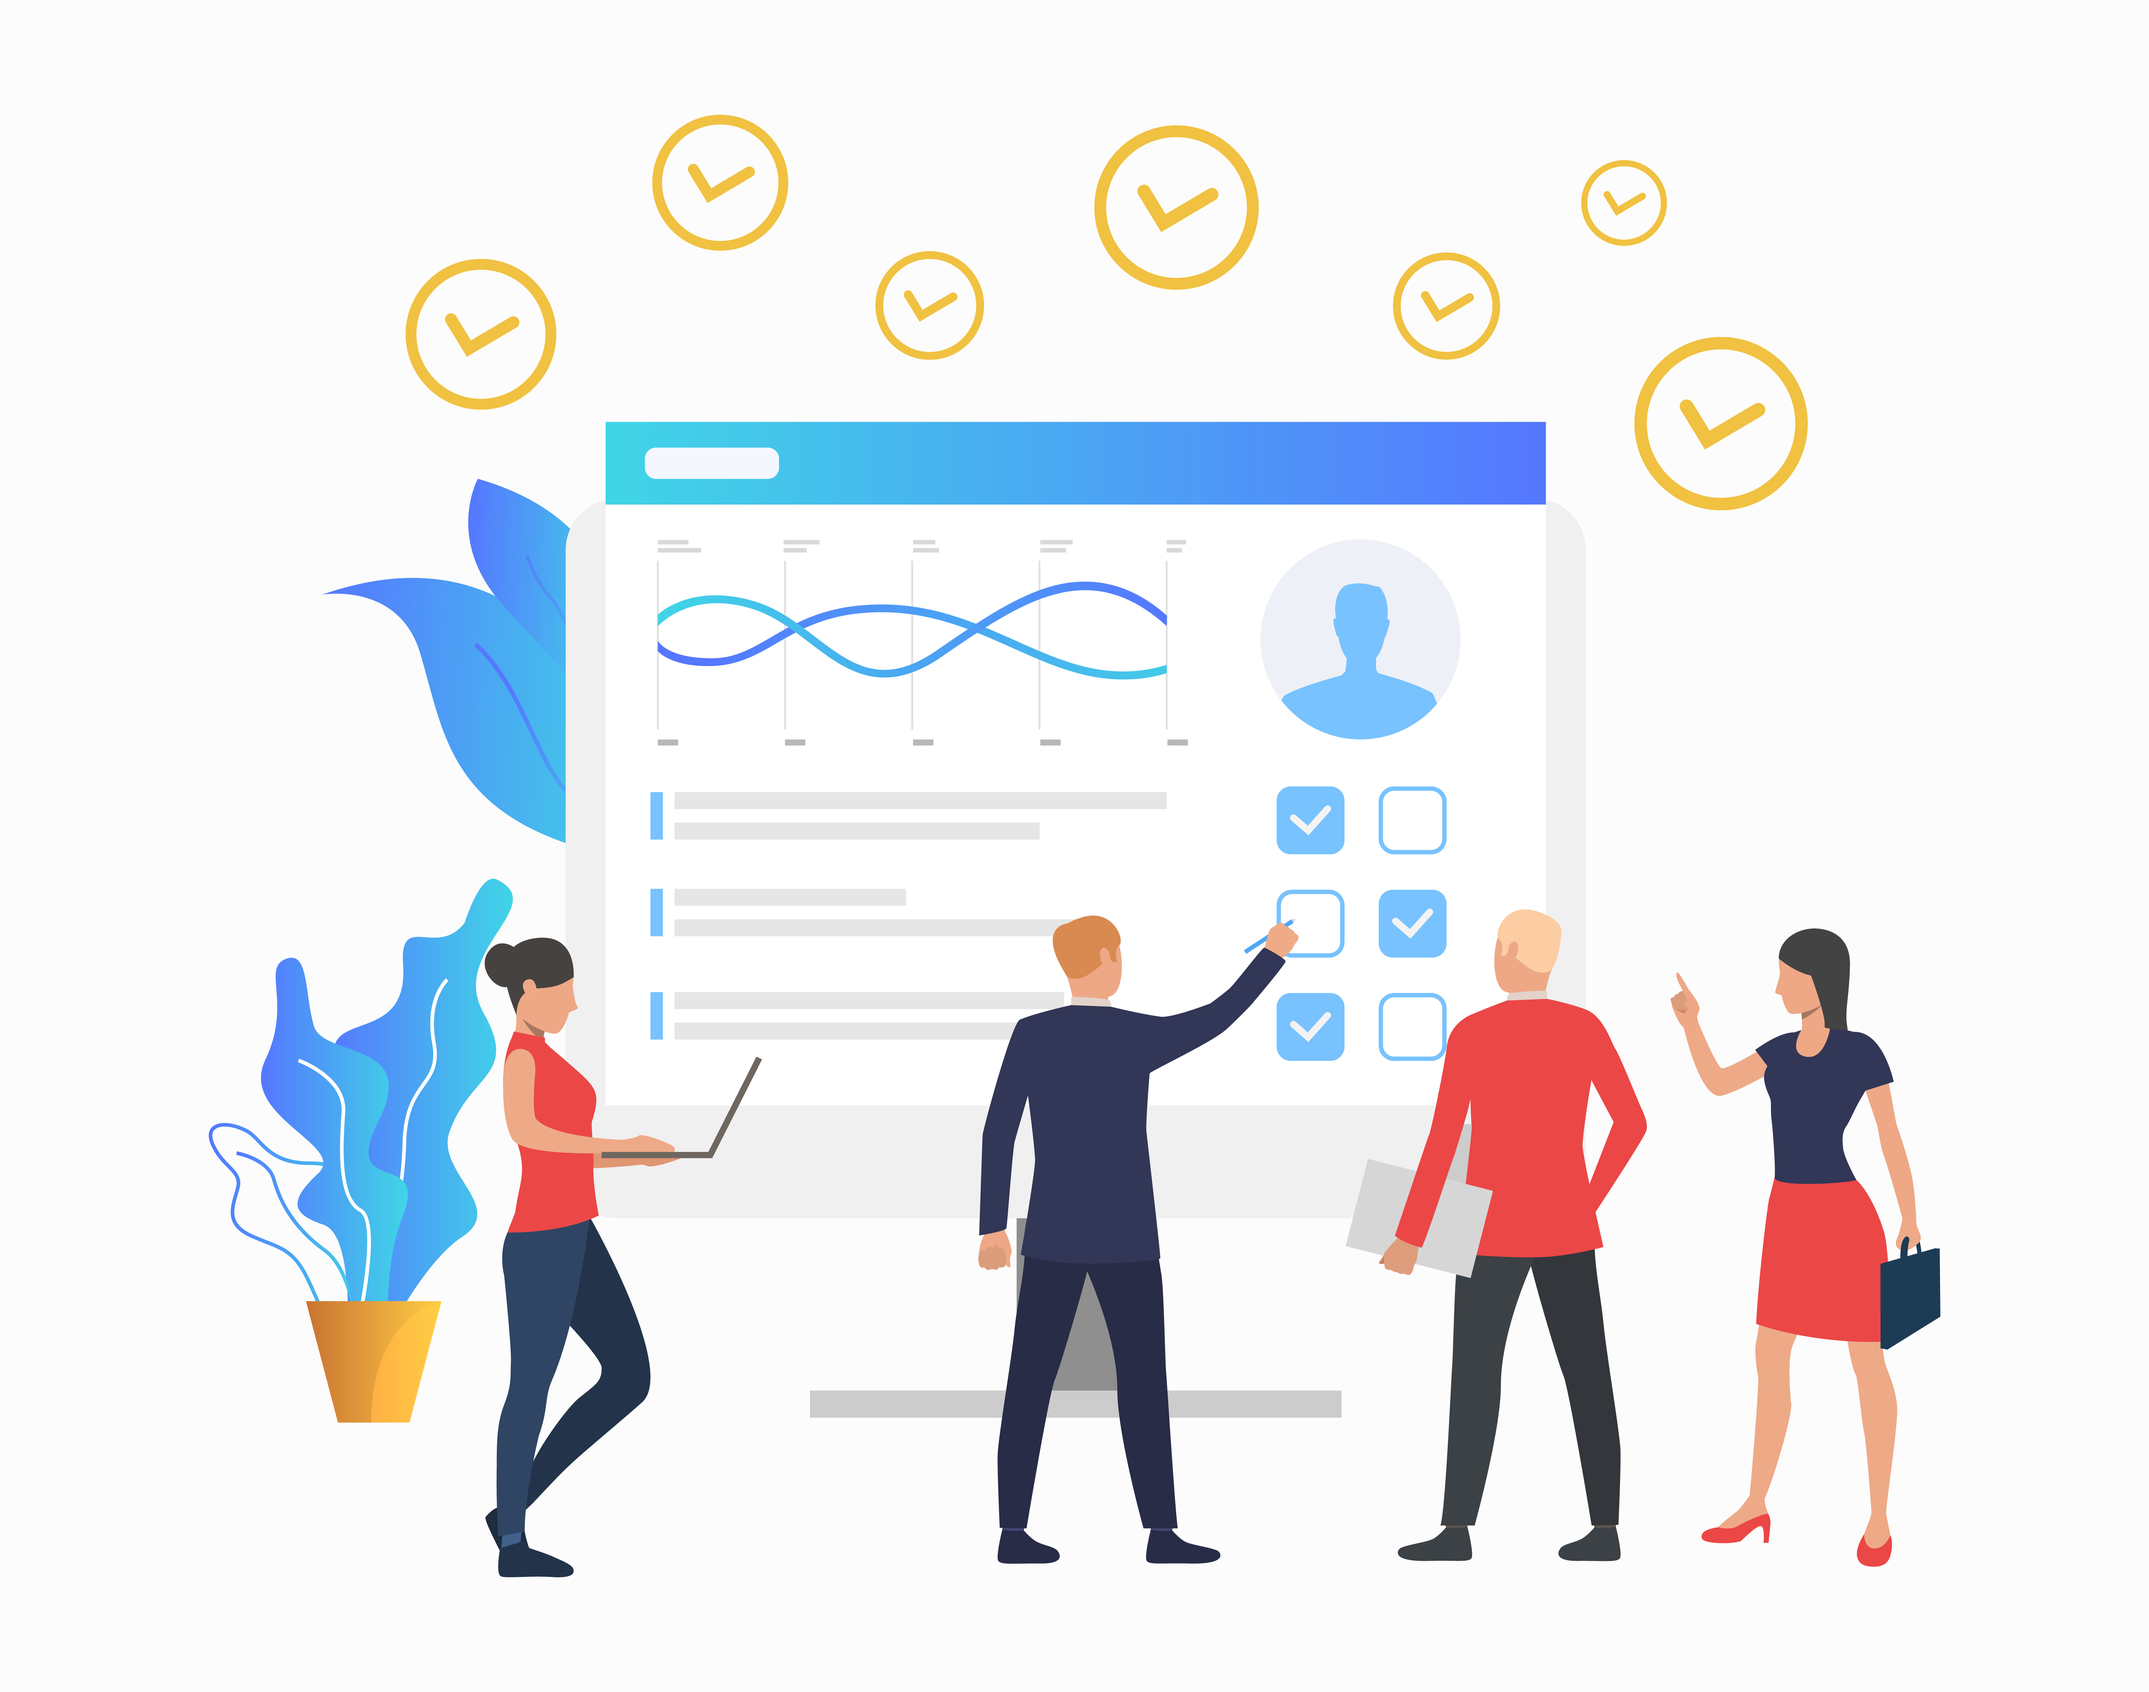
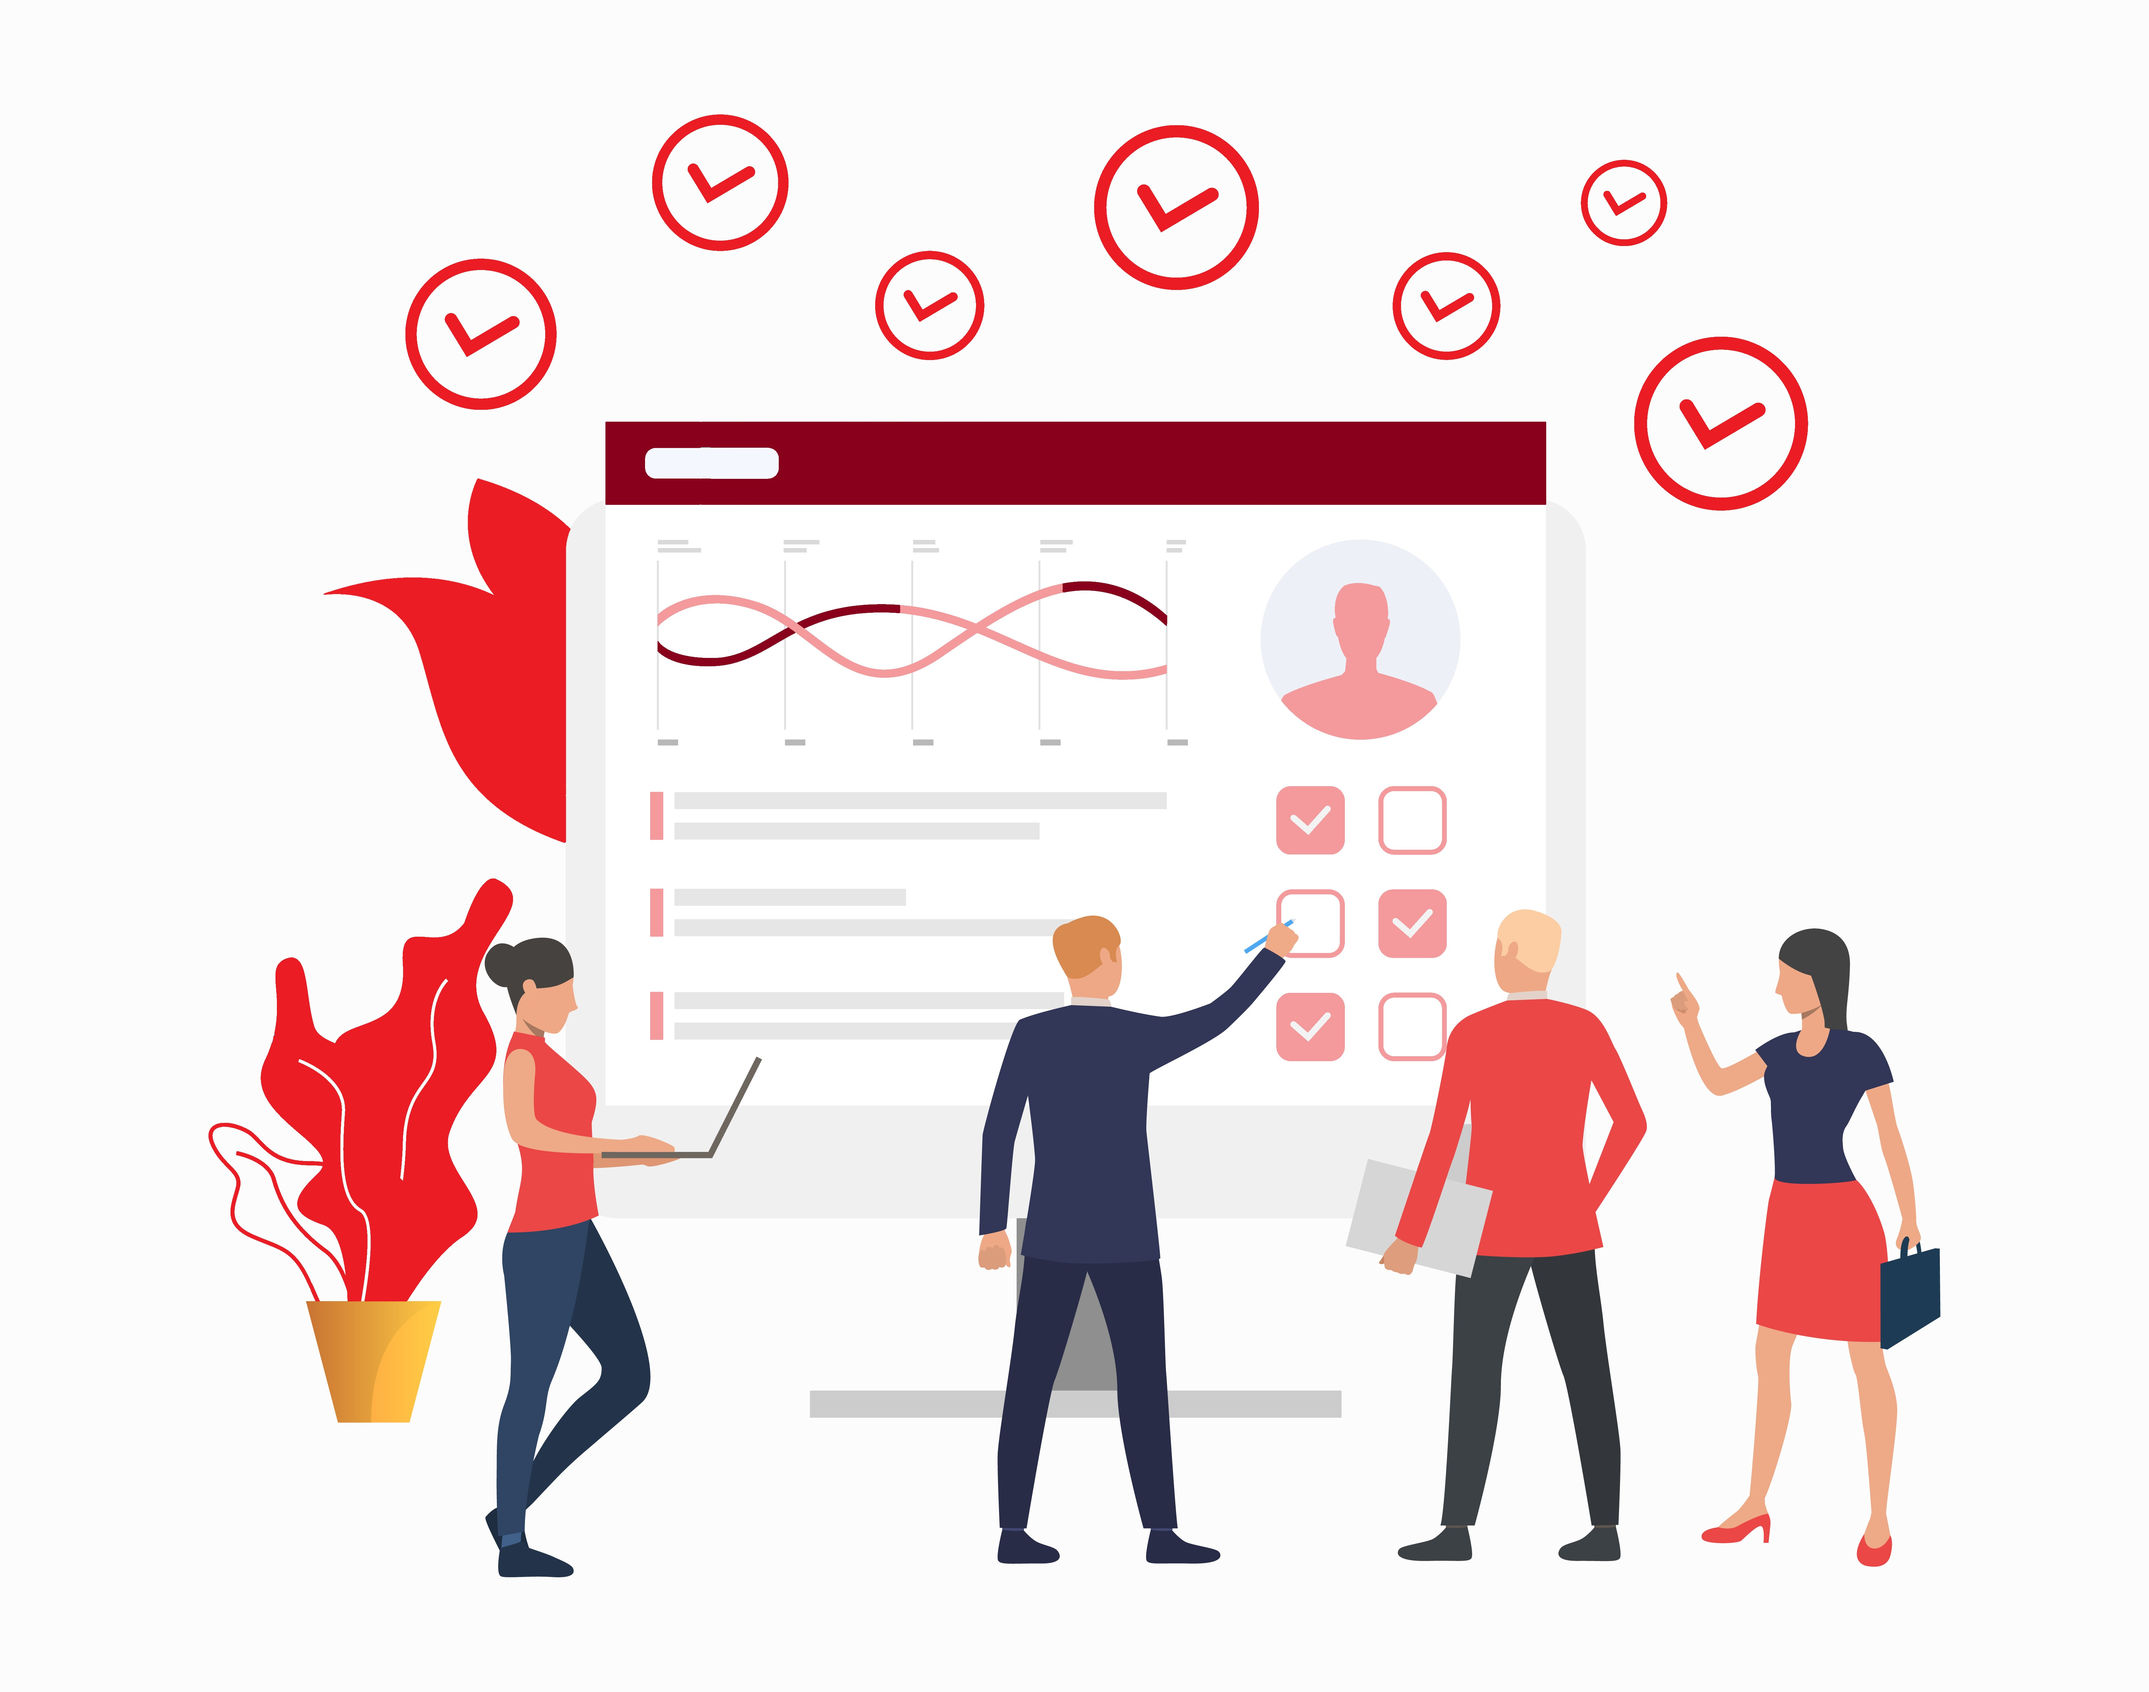
add cors/ test

diff --git a/client/src/components/NavbarGuest.jsx b/client/src/components/NavbarGuest.jsx
@@ -19,20 +19,20 @@ const NavbarGuest = () => {
 
     <div>
 
-      <nav class="bg-transparent w-full">
-        <div class=" flex flex-wrap items-center justify-between px-10 py-2">
-          <a href="/" class="flex items-center">
-            <img src={appLogo} class="h-16 mr-3 rounded-full" alt="Flowbite Logo" />
-            <span class="self-center text-2xl font-semibold whitespace-nowrap dark:text-white">tHONTHRON HR System</span>
+      {/* <nav className="bg-transparent w-full">
+        <div className=" flex flex-wrap items-center justify-between px-10 py-2">
+          <a href="/" className="flex items-center">
+            <img src={appLogo} className="h-16 mr-3 rounded-full" alt="Flowbite Logo" />
+            <span className="self-center text-2xl font-semibold whitespace-nowrap dark:text-white">tHONTHRON HR System</span>
           </a>
           {user && <span className='text-gray-700'>Welcome, {user.name}</span>}
-          <button data-collapse-toggle="navbar-default" type="button" class="inline-flex items-center p-2 w-10 h-10 justify-center text-sm text-gray-500 rounded-lg md:hidden hover:bg-gray-100 focus:outline-none focus:ring-2 focus:ring-gray-200 " aria-controls="navbar-default" aria-expanded="false">
-            <span class="sr-only">Open main menu</span>
-            <svg class="w-5 h-5" aria-hidden="true" xmlns="http://www.w3.org/2000/svg" fill="none" viewBox="0 0 17 14">
+          <button data-collapse-toggle="navbar-default" type="button" className="inline-flex items-center p-2 w-10 h-10 justify-center text-sm text-gray-500 rounded-lg md:hidden hover:bg-gray-100 focus:outline-none focus:ring-2 focus:ring-gray-200 " aria-controls="navbar-default" aria-expanded="false">
+            <span className="sr-only">Open main menu</span>
+            <svg className="w-5 h-5" aria-hidden="true" xmlns="http://www.w3.org/2000/svg" fill="none" viewBox="0 0 17 14">
               <path stroke="currentColor" stroke-linecap="round" stroke-linejoin="round" stroke-width="2" d="M1 1h15M1 7h15M1 13h15" />
             </svg>
           </button>
-          <div class=" flex " id="navbar-default">
+          <div className=" flex " id="navbar-default">
 
             <div>
 
@@ -40,15 +40,50 @@ const NavbarGuest = () => {
                   <Link to='/login' type="button" className="py-2.5 px-5 mr-2 mb-2 text-sm font-medium text-gray-900 focus:outline-none bg-white rounded-lg border border-red-200 hover:bg-red-700 hover:text-white focus:z-10 focus:ring-4 focus:ring-gray-200" aria-expanded="false" >
                     Login
                   </Link>
-                  {/* <Link to='/signup' type="button" className="flex text-md rounded-full text-white hover:text-red-500" aria-expanded="false" >
-                        Register
-                      </Link> */}
+                  
                 </div>
             </div>
           </div>
         </div>
-      </nav>
+      </nav> */}
 
+
+      <nav className="bg-white border-gray-200 dark:bg-red-700">
+        <div className="max-w-screen-xl flex flex-wrap items-center justify-between mx-auto p-4">
+          <a href="/" className="flex items-center">
+              <img src={appLogo} className="h-8 mr-3  rounded-full" alt="Flowbite Logo" />
+              <span className="self-center text-xl font-semibold whitespace-nowrap text-white">tHONTHRON HRMS</span>
+          </a>
+          <button data-collapse-toggle="navbar-default" type="button" className="inline-flex items-center p-2 w-10 h-10 justify-center text-sm text-white rounded-lg md:hidden hover:bg-gray-100 focus:outline-none focus:ring-2 focus:ring-gray-200" aria-controls="navbar-default" aria-expanded="false">
+              <span className="sr-only">Open main menu</span>
+              <svg className="w-5 h-5" aria-hidden="true" xmlns="http://www.w3.org/2000/svg" fill="none" viewBox="0 0 17 14">
+                  <path stroke="currentColor" stroke-linecap="round" stroke-linejoin="round" stroke-width="2" d="M1 1h15M1 7h15M1 13h15"/>
+              </svg>
+          </button>
+          <div className="hidden w-full md:block md:w-auto" id="navbar-default">
+            <ul className="font-medium flex flex-col p-4 md:p-0 mt-4 border border-gray-100 rounded-lg bg-gray-50 md:flex-row md:space-x-8 md:mt-0 md:border-0 md:bg-white">
+              {/* <li>
+                <a href="#" className="block py-2 pl-3 pr-4 text-white bg-blue-700 rounded md:bg-transparent md:text-blue-700 md:p-0 dark:text-white md:dark:text-blue-500" aria-current="page">Home</a>
+              </li>
+              <li>
+                <a href="#" className="block py-2 pl-3 pr-4 text-gray-900 rounded hover:bg-gray-100 md:hover:bg-transparent md:border-0 md:hover:text-blue-700 md:p-0 dark:text-white md:dark:hover:text-blue-500 dark:hover:bg-gray-700 dark:hover:text-white md:dark:hover:bg-transparent">About</a>
+              </li>
+              <li>
+                <a href="#" className="block py-2 pl-3 pr-4 text-gray-900 rounded hover:bg-gray-100 md:hover:bg-transparent md:border-0 md:hover:text-blue-700 md:p-0 dark:text-white md:dark:hover:text-blue-500 dark:hover:bg-gray-700 dark:hover:text-white md:dark:hover:bg-transparent">Services</a>
+              </li>*/}
+              <Link to='/login' type="button" className="block py-2 pl-3 pr-4 text-white rounded bg-red-700  md:border-0 md:hover:text-red-200 md:p-0 " aria-expanded="false" >
+                    Login
+                  </Link>
+              {/* <li>
+                <a href="#" className="block py-2 pl-3 pr-4 text-gray-900 rounded hover:bg-gray-100 md:hover:bg-transparent md:border-0 md:hover:text-blue-700 md:p-0 dark:text-white md:dark:hover:text-blue-500 dark:hover:bg-gray-700 dark:hover:text-white md:dark:hover:bg-transparent">Pricing</a>
+              </li> 
+              <li>
+                <a href="#" className="block py-2 pl-3 pr-4 text-gray-900 rounded hover:bg-gray-100 md:hover:bg-transparent md:border-0 md:hover:text-blue-700 md:p-0 dark:text-white md:dark:hover:text-blue-500 dark:hover:bg-gray-700 dark:hover:text-white md:dark:hover:bg-transparent">Contact</a>
+              </li> */}
+            </ul>
+          </div>
+        </div>
+      </nav>
 
 
     </div>

diff --git a/client/src/components/GuestLayout.jsx b/client/src/components/GuestLayout.jsx
@@ -5,7 +5,7 @@ import Navbar from './Navbar';
 import Body from './Body';
 import Footer from './Footer';
 import NavbarGuest from './NavbarGuest';
-import backgroundImg from '../assets/bg.jpg';
+import backgroundImg from '../assets/18959.jpg';
 const GuestLayout = () => {
     const {token}=useStateContext();
     if(token){
@@ -14,16 +14,14 @@ const GuestLayout = () => {
   return (
     <div > 
     
-        
-        <div  className="p-4 h-max bg-gray-200" style={{objectFit:'contain',backgroundSize:'100%', backgroundRepeat:'no-repeat', width:'100%' ,backgroundImage: `url(${backgroundImg})` }}>
+    <NavbarGuest/>
+    {/* <div  className="p-4 h-max bg-gray-200" style={{objectFit:'cover',backgroundSize:'100%', backgroundRepeat:'no-repeat', width:'100%' ,backgroundImage: `url(${backgroundImg})` }}>
         <div className="mt-0">
-        <NavbarGuest/>
+        
         <section>
         <div 
           className='w-full h-96   bg-cover bg-no-repeat duration-500 relative'>
-          {/* <img class="h-auto w-full object-contain" src={appLogo} alt="image description">
-          
-        </img>*/}
+        
           <div className="absolute px-4   bg-opacity-60 top-20 left-20 right-0 m-auto text-left flex flex-col gap-5">
             <span className='text-4xl font-bold text-white'>
               tHONTHRON
@@ -31,9 +29,7 @@ const GuestLayout = () => {
             <span className='text-4xl font-bold text-white'>
               HR Managment System
             </span>
-            {/* <p className='text-lg text-white'>
-              Lorem ipsum dolor sit amet, consectetur adipiscing elit. Maecenas nec orci laoreet, facilisis quam vel, vulputate odio. Sed sit amet lectus justo. Sed tempor, enim eu pulvinar blandit, nisl nibh pharetra quam, at malesuada leo augue sit amet libero. Vestibulum ipsum libero, sagittis eu orci a, porttitor aliquet erat. Suspendisse potenti. Pellentesque sit amet lectus orci. Nulla placerat leo quis ipsum mollis ultricies. Vivamus in nisl eros. Ut non sapien tempor, maximus est ultrices, egestas tortor.
-            </p> */}
+            
 
           </div>
         </div>
@@ -41,7 +37,22 @@ const GuestLayout = () => {
       </section>
         </div> 
         
+      </div> */}
+      <div className="flex flex-row mt-2 justify-center">
+        <div className="div flex-initial w-full flex flex-col content-around px-20 py-36">
+        <span className='text-6xl font-bold text-red-700 text-start'>
+              HR Solutions <br/>for your business
+            </span>
+            <span className='text-2xl font-bold text-gray-400 mt-10 text-start'>
+            Experience seamless HR management with our integrated platform. From recruitment to retirement, we've got your workforce covered. Dive into a system designed for efficiency, transparency, and growth.
+            </span>
+        </div>
+        <div className="div flex-initial w-full">
+          <img src={backgroundImg} style={{ width:'100%',  }} alt="" />
+        </div>
       </div>
+         
+        
       <Outlet/>
       <Footer/>
     </div>

diff --git a/client/src/axiosClient.js b/client/src/axiosClient.js
@@ -1,12 +1,16 @@
 import axios from "axios";
 
 const axiosClient= axios.create({
-    baseURL: `http://localhost:8000/api`
+    baseURL: `https://clever-tesla.82-165-200-34.plesk.page/api/`,//`http://localhost:8000/api`
 });
 
 axiosClient.interceptors.request.use((config)=>{
     const token=localStorage.getItem('ACCESS_TOKEN');
-    config.headers.Authorization=`Bearer ${token}`;
+    config.headers={
+        'Authorization':`Bearer ${token}`,
+        'Access-Control-Allow-Origin': '*',
+    }
+    //config.headers.Authorization=`Bearer ${token}`;
     return config;
 })
 

diff --git a/client/src/components/SectionCard.jsx b/client/src/components/SectionCard.jsx
@@ -7,7 +7,7 @@ const SectionCard = ({icon,title,subTitle}) => {
             {icon}
             <a href="#" class="block  text-center ">
                 <h5 class="mb-2 text-2xl font-bold tracking-tight text-gray-600">{title}</h5>
-                <p class="font-normal text-gray-500">{subTitle}</p>
+                <p class="font-normal text-gray-500 text-start">{subTitle}</p>
             </a>
         </div>
     

diff --git a/routes/api.php b/routes/api.php
@@ -36,6 +36,7 @@ use Illuminate\Support\Facades\Route;
 */
 
 Route::middleware('auth:sanctum')->group(function(){
+    
     Route::get('/user', function (Request $request) {
         return $request->user();
     });
